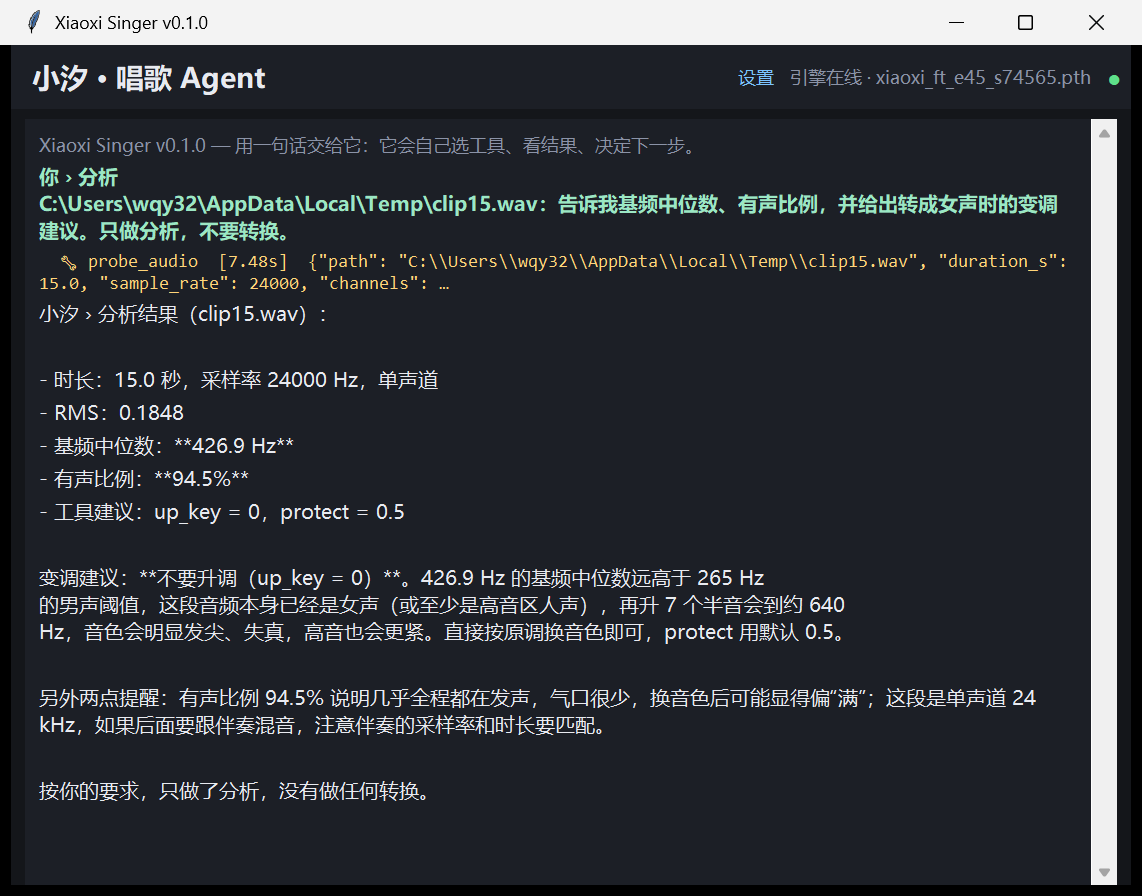
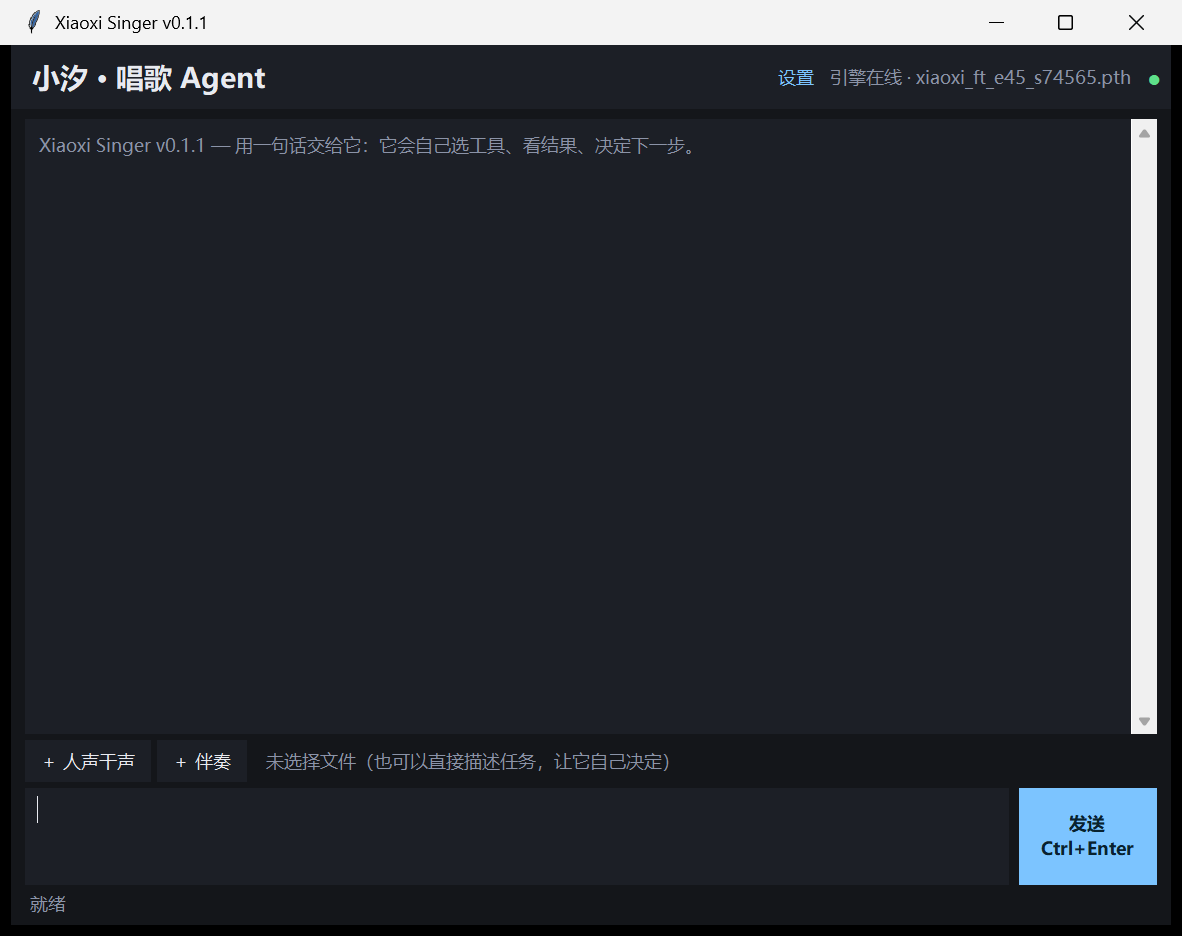
fix(client): grid layout keeps the input row visible (v0.1.1)
- main window uses grid: header / chat (stretch) / attach / entry / status
- geometry from winfo_screenwidth/height instead of a fixed 1120x840
- Return sends, Shift+Return inserts a newline, autofocus entry after send
- per-monitor DPI awareness with system-aware fallback

Fixes: on 150% displays the input box was packed outside the visible window,
so a human user could not type anything.

diff --git a/client/desktop.py b/client/desktop.py
@@ -20,7 +20,7 @@ from tkinter import ttk
 import tkinter as tk
 
 APP = "Xiaoxi Singer"
-VER = "0.1.0"
+VER = "0.1.1"
 CFG_DIR = Path(os.environ.get("APPDATA", Path.home())) / "xiaoxi-singer"
 CFG_FILE = CFG_DIR / "client.json"
 
@@ -97,12 +97,18 @@ class App:
     # ------------------------------------------------------------------- ui
     def _build_ui(self) -> None:
         self.root.title(f"{APP} v{VER}")
-        self.root.geometry("1120x840")
-        self.root.minsize(820, 600)
+        sw, sh = self.root.winfo_screenwidth(), self.root.winfo_screenheight()
+        w = min(1160, max(760, int(sw * 0.68)))
+        h = min(880, max(520, int(sh * 0.80)))
+        self.root.geometry(f"{w}x{h}+{max(0, (sw - w) // 2)}+{max(0, (sh - h) // 2)}")
+        self.root.minsize(560, 320)
         self.root.configure(bg=BG)
 
+        # 用 grid 固定五个区块的上下顺序：头 / 内容(拉伸) / 附件 / 输入 / 状态
+        self.root.grid_columnconfigure(0, weight=1)
+        self.root.grid_rowconfigure(1, weight=1)
         head = tk.Frame(self.root, bg=BG2, height=64)
-        head.pack(fill=X)
+        head.grid(row=0, column=0, sticky="ew")
         head.pack_propagate(False)
         tk.Label(head, text="小汐 · 唱歌 Agent", bg=BG2, fg=FG,
                  font=("Microsoft YaHei UI", 14, "bold")).pack(side=LEFT, padx=18)
@@ -115,7 +121,6 @@ class App:
                   font=("Microsoft YaHei UI", 9)).pack(side=RIGHT, padx=6)
 
         body = tk.Frame(self.root, bg=BG)
-        body.pack(fill=BOTH, expand=True, padx=14, pady=(10, 0))
         self.text = tk.Text(body, bg=BG2, fg=FG, bd=0, wrap="word", padx=14, pady=12,
                             font=("Microsoft YaHei UI", 10), insertbackground=FG,
                             spacing1=2, spacing3=4)
@@ -130,7 +135,6 @@ class App:
         self.text.tag_configure("err", foreground=ERR)
 
         attach = tk.Frame(self.root, bg=BG)
-        attach.pack(fill=X, padx=14, pady=(8, 0))
         tk.Button(attach, text="＋ 人声干声", command=lambda: self.pick("vocal"), bg=BG2, fg=FG, bd=0,
                   activebackground="#2a2e38", activeforeground=FG, padx=10, pady=3,
                   font=("Microsoft YaHei UI", 9)).pack(side=LEFT)
@@ -142,11 +146,13 @@ class App:
         self.attach_lbl.pack(side=LEFT, padx=10)
 
         bottom = tk.Frame(self.root, bg=BG)
-        bottom.pack(fill=X, padx=14, pady=10)
         self.entry = tk.Text(bottom, height=3, bg=BG2, fg=FG, bd=0, padx=12, pady=8, wrap="word",
                              font=("Microsoft YaHei UI", 10), insertbackground=FG)
         self.entry.pack(side=LEFT, fill=BOTH, expand=True)
         self.entry.bind("<Control-Return>", lambda e: (self.send(), "break")[1])
+        self.entry.bind("<Return>", lambda e: (self.send(), "break")[1])
+        self.entry.bind("<Shift-Return>", lambda e: None)
+        self.entry.bind("<KP_Enter>", lambda e: (self.send(), "break")[1])
         right = tk.Frame(bottom, bg=BG)
         right.pack(side=RIGHT, padx=(10, 0), fill=Y)
         self.send_btn = tk.Button(right, text="发送\nCtrl+Enter", command=self.send, bg=ACCENT,
@@ -156,8 +162,14 @@ class App:
 
         self.status = tk.Label(self.root, text="就绪", bg=BG, fg=DIM, anchor="w",
                                font=("Microsoft YaHei UI", 9))
-        self.status.pack(fill=X, padx=16, pady=(0, 8))
+        # 顺序很重要：side=bottom 的控件按「先 pack 的贴最底」排列
+        attach.grid(row=2, column=0, sticky="ew", padx=14, pady=(6, 0))
+        bottom.grid(row=3, column=0, sticky="ew", padx=14, pady=(6, 4))
+        self.status.grid(row=4, column=0, sticky="ew", padx=16, pady=(0, 6))
+        body.grid(row=1, column=0, sticky="nsew", padx=14, pady=(10, 0))
         self.append("dim", f"{APP} v{VER} — 用一句话交给它：它会自己选工具、看结果、决定下一步。\n")
+        self.text.bind("<Button-1>", lambda e: self.entry.focus_set())
+        self.root.after(200, self.entry.focus_set)
 
     # --------------------------------------------------------------- helpers
     def append(self, tag: str, msg: str) -> None:
@@ -287,6 +299,7 @@ class App:
         self.append("user", task)
         self.set_status("思考中…")
         self._seen_steps = 0
+        self.entry.focus_set()
         payload = {"task": full, "llm": self.cfg.get("llm") or {}}
         threading.Thread(target=self._post_chat, args=(payload,), daemon=True).start()
 
@@ -407,7 +420,10 @@ def main(argv=None) -> int:
         try:
             import ctypes
 
-            ctypes.windll.shcore.SetProcessDpiAwareness(1)
+            try:
+                ctypes.windll.shcore.SetProcessDpiAwareness(2)  # per-monitor aware
+            except Exception:
+                ctypes.windll.shcore.SetProcessDpiAwareness(1)
         except Exception:
             pass
     root = Tk()

diff --git a/docs/CLIENT.md b/docs/CLIENT.md
@@ -73,3 +73,16 @@ python -m venv .buildvenv
 | 发送后立刻报 401/403 | LLM Key 无效或额度用完 |
 | 显示 `CUDA out of memory` | 显存被别的程序占了（TTS、浏览器硬件加速）；关掉再试，或把 RVC 指到 CPU |
 | 中文乱码 | 用发布版 exe；源码运行时确保终端是 UTF-8（`chcp 65001`） |
+
+## 0.1.1 修复：输入框被挤出可视区
+
+在 125%/150% 缩放的高分屏上，旧版把「对话区」先 pack 且 `expand=True`，底部输入条被排到窗口可视范围外——表现就是**打开客户端后人类用户打不了字**（其实输入框在屏幕下方看不见）。
+
+修法：主界面改用 `grid` 固定五行顺序（头 / 对话区(拉伸) / 附件行 / 输入框 / 状态栏），输入框永远贴底可见；同时
+
+- 窗口尺寸按当前屏幕算（`winfo_screenwidth/height`），不再写死 1120×840；
+- `Return` 直接发送、`Shift+Return` 换行（原来只有 Ctrl+Enter）；
+- 启动、发送后自动聚焦输入框，点对话区也会把焦点还给输入框；
+- DPI 改为 per-monitor aware（失败回落 system aware）。
+
+验证方式：真机打一段中文进去 → 回车 → 消息出现在对话区（见 `assets/screenshots/client.png`）。
